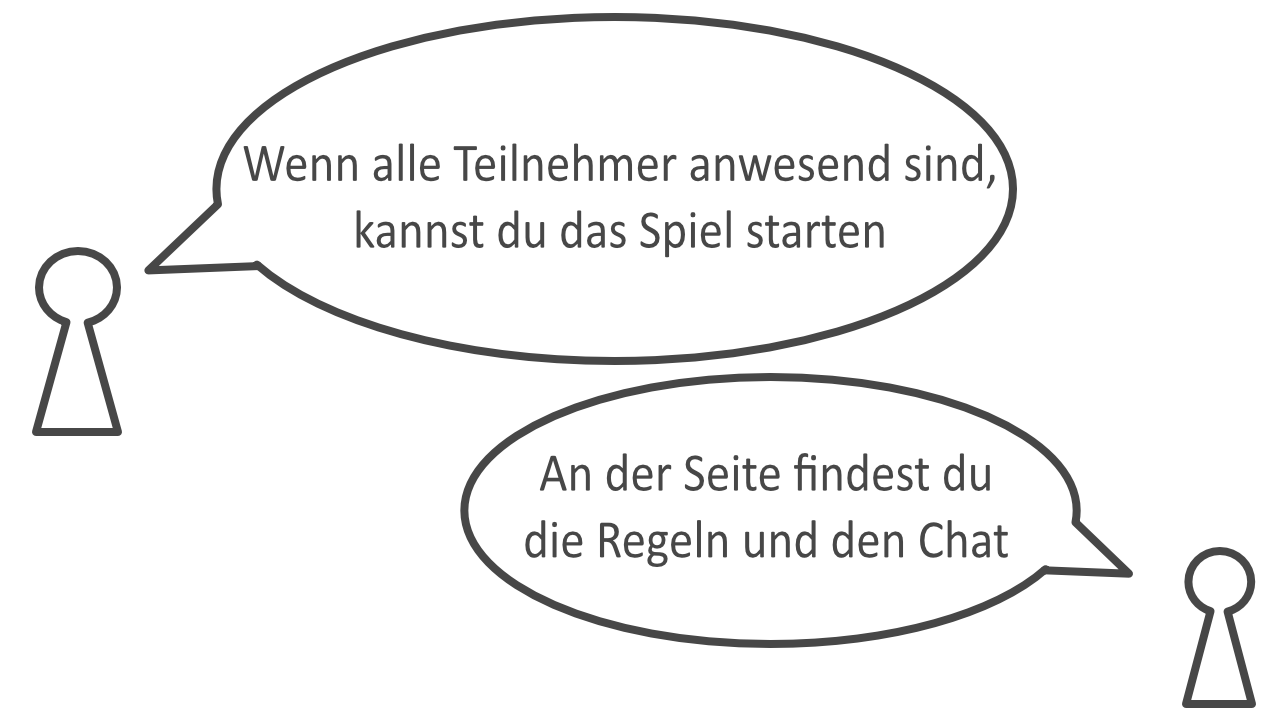
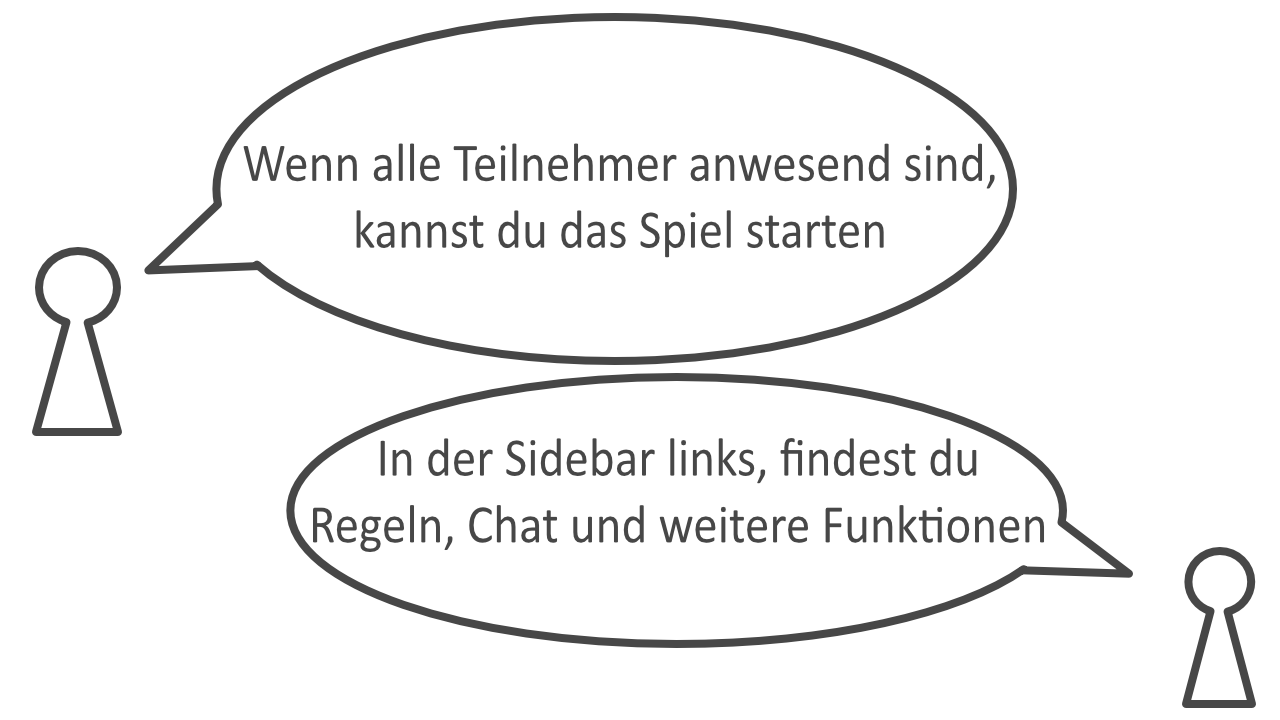
Modal and Img changes

Changed region(s): [[0.2188, 0.5194, 0.875, 0.9167], [0.3125, 0.55, 0.375, 0.5806]]

diff --git a/frontend/src/components/Lobby/Lobby.js b/frontend/src/components/Lobby/Lobby.js
@@ -25,7 +25,6 @@ function Lobby(props) {
     // Wenn das Spiel gestarted wurde
     const handleGameStartedEvent = useCallback((data) => {
 
-    //$('#game-content-wrapper').css({backgroundImage: 'url (../../img/background_9.png)'});
 
         history.push({
             pathname: '/game' + data.route,
@@ -38,19 +37,20 @@ function Lobby(props) {
     }, [history, props.gameId]);
 
     // Sets the background image
-    //const setBackground = (image) => {
+    /*const setBackground = useCallback(() => {
         
-   // $("#game-wrapper-content").css({backgroundImage: lobbyred})
-    //    if (id = 0) {
-     //       setBackground(lobbyred);
-    //    } else if (id = 1) {
-    //        setBackground(lobbygreen);
-     //   } else {
-     //       setBackground(lobbyblue);
-     //    }
+        $("#game-wrapper-content").css({backgroundImage: lobbyred});
+        if (props.gameId == 1) {
+            setBackground(lobbygreen)
+        } else if (probs.gameId == 2) {
+            setBackground(lobbyblue)
+        } else {
+            setBackground(lobbyred)
+        }
+    
+    }, []);
+    */
 
-        
-   // }
 
     // Socket Events
     useEffect(() => {

diff --git a/frontend/src/components/Slf/WordsEvaluation/WordsEvaluation.js b/frontend/src/components/Slf/WordsEvaluation/WordsEvaluation.js
@@ -116,7 +116,7 @@ function WordsEvaluation(props) {
                         <p className='slf-evaluate-letter'>{ 'Buchstabe: ' + props.letter.toUpperCase() }</p>
                     </div>
                     <div className='slf-state-describtion-wrapper'>
-                        <p className='slf-state-describtion'>Setzte bei jeder korrekten Antwort ein Kreuz. Haben mindestens 50% der Spieler ein Kreuz bei einer Antwort gesetzt, wird diese als gültig makiert.</p>
+                        <p className='slf-state-describtion'>Setzte bei jeder korrekten Antwort ein Kreuz</p>
                     </div>
                 </div>
                 <div id='slf-evaluation-wrapper'>

diff --git a/frontend/src/components/Home/Description/Description.js b/frontend/src/components/Home/Description/Description.js
@@ -60,7 +60,7 @@ function Description() {
             {/* Modal */}
             <div className="modal fade" id="join-game-modal" role="dialog" aria-labelledby="exampleModalCenterTitle" aria-hidden="true">
                 <div className="modal-dialog modal-dialog-centered" role="document">
-                    <div className="modal-content">
+                    <div className="modal-content" id="modal-join-game">
                         <div className="modal-header">
                             <h5 className="modal-title">Trete einem Spiel bei</h5>
                             <button type="button" className="close" data-dismiss="modal" aria-label="Close">

diff --git a/frontend/src/components/EndGameModal/ChooseGame/ChooseGame.js b/frontend/src/components/EndGameModal/ChooseGame/ChooseGame.js
@@ -108,7 +108,7 @@ function ChooseGame(props) {
             </div>
             <div id='endgame-modal-footer' className="modal-footer">
                 <small id='endgame-modal-error-output' className="text-danger" />
-                <button type="button" className="btn btn-primary" onClick={ leaveRoom }>Raum verlassen</button>
+                <button type="button" className="btn btn-dark" onClick={ leaveRoom }>Raum verlassen</button>
             </div>
             <small id='endgame-modal-error-output' className="text-danger" />
         </div>

diff --git a/frontend/src/components/Slf/CategorySelection/CategorySelection.js b/frontend/src/components/Slf/CategorySelection/CategorySelection.js
@@ -12,6 +12,8 @@ import SocketContext from '../../../services/socket';
 
 import NumericInput from 'react-numeric-input';
 
+import sprechblaseWartenHost from '../../../img/SprechblaseWartenAufHost.png'
+
 function CategorySelection(props) {
 
 
@@ -118,7 +120,7 @@ function CategorySelection(props) {
     } else {
         return (
             <div>
-                <p>Der Host ist dabei die Kategorien für das Spiel auszusuchen.</p>
+                <img src={sprechblaseWartenHost} height="270px"/> 
             </div>
         );
     }

diff --git a/frontend/src/components/EndGameModal/ChooseGame/ChooseGame.css b/frontend/src/components/EndGameModal/ChooseGame/ChooseGame.css
@@ -23,10 +23,15 @@
 
 .img-game{
     height: 120px;
-    border-radius: 0.2rem;
+    border-radius: 0.4rem;
+    border: solid 1px #474747;
 }
 
-
+#endgame-modal-content{
+    background-image: url(../../../img/modal_background_1.png);
+    background-size: 100%;
+    background-repeat: no-repeat;
+}
 
 #slf:hover {
     padding: 0px;

diff --git a/frontend/src/components/Slf/CategorySelection/CategorySelection.css b/frontend/src/components/Slf/CategorySelection/CategorySelection.css
@@ -1,6 +1,7 @@
 b{
     background: white !important;
     border-color: white !important;
+    box-shadow: none !important;
 }
 
 .category-selector-header{
@@ -13,7 +14,7 @@ b{
 }
 
 #cancel-button{
-    margin-bottom: 4px;
+    margin-bottom: 4px !important;
 }
 
 .category-selector-wrapper {

diff --git a/frontend/src/components/Home/Description/Description.css b/frontend/src/components/Home/Description/Description.css
@@ -26,6 +26,12 @@
     margin-bottom: 20px;
 }
 
+#modal-join-game{
+    background-image: url(../../../img/modal_background_2.png);
+    background-size: 110%;
+    background-repeat: no-repeat;
+}
+
 .btn {
     color: #fff;
     background-color: #474747;

diff --git a/frontend/src/components/EndGameModal/WinnerDisplay/WinnerDisplay.css b/frontend/src/components/EndGameModal/WinnerDisplay/WinnerDisplay.css
@@ -1,5 +1,5 @@
 #endgame-modal-content{
-    background: url(../../../img/background_lobby.png);
+    background: url(../../../img/modal_background_2.png);
     background-size: 100%;
     background-repeat: no-repeat;
 }
